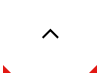
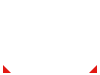
added last elements

Changed region(s): [[0.87, 0.8, 0.99, 0.9867], [0.42, 0.3467, 0.6, 0.5067], [0.03, 0.8, 0.12, 0.9867]]

diff --git a/index.html b/index.html
@@ -544,8 +544,8 @@
                                </div>     
                                <div class="blog-grid-content-case-datalikes">
                                     March 22, 2017  . 
-                                    <i class="fa fa-heart-o" aria-hidden="true"></i> 100 Likes   .
-                                    <i class="fa fa-comment-o" aria-hidden="true"></i> 20 Comment
+                                    <i class="fa fa-heart-o datalikes" aria-hidden="true"></i> 100 Likes   .
+                                    <i class="fa fa-comment-o datalikes" aria-hidden="true"></i> 20 Comment
                                </div>     
                                <div class="blog-grid-content-case-buttons">
                                     <div class="blog-grid-content-case-buttons-readmore">
@@ -573,8 +573,8 @@
                                </div> 
                                <div class="blog-grid-content-case-datalikes">
                                     March 22, 2017  . 
-                                    <i class="fa fa-heart-o" aria-hidden="true"></i> 100 Likes   .
-                                    <i class="fa fa-comment-o" aria-hidden="true"></i> 20 Comment
+                                    <i class="fa fa-heart-o datalikes" aria-hidden="true"></i> 100 Likes   .
+                                    <i class="fa fa-comment-o datalikes" aria-hidden="true"></i> 20 Comment
                                </div> 
                                <div class="blog-grid-content-case-buttons">
                                     <div class="blog-grid-content-case-buttons-readmore">
@@ -627,16 +627,38 @@
                     </div>
                     <!--NEXT PAGE NAV-->
                     <div class="next-page row">
-                        <div class="night-life col-lg-2">
-                            
+                        <div class="previous-blok col-lg-5">
+                           <div class="previous-blok-button">
+                                <div>
+                                    <a class="arrow-link" href="#">
+                                        <i class="fa fa-arrow-left arrow-page" aria-hidden="true"></i>
+                                    </a>
+                                 </div> 
+                                <div>Previous</div>
+                           </div>
                         </div>
 
-                        <div class="read-more col-lg-8">
-                            
+                        <div class="pages-block col-lg-2">
+                            <div class="page">
+                                <a href="#">1</a>
+                            </div>
+                            <div class="page">
+                                <a href="#">2</a>
+                            </div>
+                            <div class="page">
+                                <a href="#">3</a>
+                            </div>
                         </div>
-
-                        <div class="night-life col-lg-2">
                             
+                        <div class="next-block col-lg-5">
+                            <div class="next-block-button">
+                                <div>Next</div> 
+                                <div>
+                                    <a class="arrow-link" href="#">
+                                        <i class="fa fa-arrow-right arrow-page" aria-hidden="true"></i>
+                                    </a>
+                                </div>
+                            </div>
                         </div>
                     </div>
                 </div>
@@ -820,8 +842,10 @@
                                 </div>
                                 <div class="col-lg-1">
                                     <div class="return-block">
-                                        <div class="returtbutton-footer">
-                                            <a href="#"></a>
+                                        <div class="returnbutton-footer">
+                                            <a href="#">
+                                                <i class="fa fa-angle-up return" aria-hidden="true"></i>
+                                            </a>
                                         </div>
                                     </div>
                                 </div>

diff --git a/styles/styles.css b/styles/styles.css
@@ -95,6 +95,11 @@
     border: none;
 }
 
+.input-icon{
+    background-color: #fff;
+    border: none;
+}
+
 .input-icon a {
     font-family: fontawesome;
     font-size: 15px;
@@ -103,7 +108,7 @@
 }
 
 .input-icon a:hover {
-    color: pink;
+    color: skyblue;
     text-decoration: none;
 }
 
@@ -1258,14 +1263,14 @@ i {
     color: #a8aeae;
 }
 
-.fa-heart-o {
+.datalikes {
     color: #aedcde;
     font-size: 30px;
 }
 
-.fa-comment-o {
+.datalikes {
     color: #aedcde;
-    
+    font-size: 30px;
 }
 
 .blog-grid-content-case-buttons {
@@ -1340,9 +1345,110 @@ i {
     box-shadow: 0px 11px 15.84px 2.16px rgba(0, 0, 0, 0.33);
 }
 
+/*NEXT PAGE NAV*/
+
 .next-page {
-    height: 120px;
-    margin-top: 70px;
+    height: 55px;
+    margin-top: 135px;
+    background-color: #ffffff;
+    display: flex;
+    flex-direction: row;
+    flex-wrap: nowrap;
+    justify-content: space-around;
+    align-content: center;
+    align-items: center;
+}
+
+.pages-block {
+    background-color: #fff;
+    display: flex;
+    flex-direction: row;
+    flex-wrap: nowrap;
+    justify-content: space-around;
+}
+
+.page {
+    border-radius: 50%;
+    width: 55px;
+    height: 50px;
+    display: flex;
+    flex-direction: row;
+    flex-wrap: nowrap;
+    justify-content: space-around;
+    align-content: center;
+    align-items: center;
+}
+
+.page:hover {
+    background-color: #ffc908;
+}
+
+.page a {
+    color: #000;
+    text-decoration: none;
+    font-family: 'MyriadPro-Semibold';
+    font-size: 20px;
+}
+
+.page a:hover {
+    color: green;
+}
+
+.previous-blok {
+    font-family: 'MyriadPro-Semibold';
+    font-size: 24px;
+    display: flex;
+    flex-direction: row;
+    flex-wrap: nowrap;
+    justify-content: flex-start;
+    align-content: center;
+    align-items: center;
+}
+
+.previous-blok-button {
+     display: flex;
+     flex-direction: row;
+     flex-wrap: nowrap;
+     justify-content: space-between;
+     align-content: center;
+     align-items: center;  
+     width: 25%; 
+}
+
+.next-block {
+    font-family: 'MyriadPro-Semibold';
+    font-size: 24px;
+    display: flex;
+    flex-direction: row;
+    flex-wrap: nowrap;
+    justify-content: flex-end;
+    align-content: center;
+    align-items: center;
+}
+
+.next-block-button {
+    display: flex;
+    flex-direction: row;
+    flex-wrap: nowrap;
+    justify-content: space-between;
+    align-content: center;
+    align-items: center;
+    width: 17%;
+}
+
+.arrow-page {
+    font-family: 'FontAwesome';
+    font-size: 24px;
+}
+
+.arrow-link {
+    color: #000;
+    text-decoration: none;
+}
+
+.arrow-link:hover {
+    color: green;
+    text-decoration: none;
 }
 
 /*FOOTER*/
@@ -1540,22 +1646,26 @@ i {
     justify-content: flex-end;
 }
 
-.returtbutton-footer {
+.returnbutton-footer {
     background: url("../images/return-button.png");
     background-position: center;
     background-repeat: no-repeat;
     width: 100px;
-    height: 70px;
+    height: 75px;
     position: absolute;
     bottom: 33px;
     background-color: #e9e9e9;
     display: flex;
-    justify-content: flex-end;
+    justify-content: center;
     align-items: center;
 }
 
-.returtbutton-footer:hover {
-    border: solid 1px green;
+.return {
+    color: #000;
+}
+
+.returnbutton-footer:hover {
+    color: red;
 }
 
 /*INFO*/
